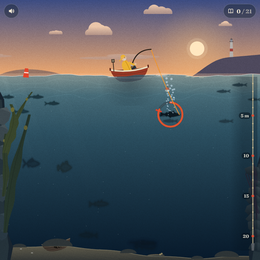
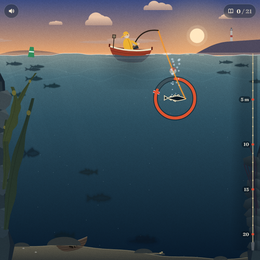
Saltline: the fishing game remade as float fishing in a bay, dawn to night
games/fishing.html is now Saltline. You drag from the boat onto the water to cast a float.
The stop on the line holds the hook at the depth you aimed, and that depth decides which
fish you meet. A shadow noses in. The float ticks with the nibbles; strike then and the
fish bolts. Then it plunges, and a tap inside that species' window hooks it. In the fight
you hold to reel and let go when a run loads the line. A slack line lets the hook work
loose; a leaping fish held through its leap throws it. Every catch is laid on a wooden
measuring board, nose against the stop, and logged among 21 species.

Why it looks this way: fish are only soft shadows in the water, so outline and size are the
clue and the species is the surprise on the board. Colour encodes depth, sky and sea take
the hour, and the hour decides who is about. The one signal colour is the float's red. A
lead line marks the depth. The angler wears a yellow oilskin. The look is flat and
printed: grain, Fraunces for names and numbers.

The rules live in a DOM-free core, and test/fishing.mjs checks them:
- every species lives somewhere and turns up at its hours;
- the strike window and outcomes match the float;
- a careful angler lands the biggest of every species, a greedy one snaps the strong ones,
  a lazy one loses them to slack;
- a person-paced bot gets a bite inside half a minute;
- seeds replay exactly, saves trust nothing, and the old PLUMB log carries over where its
  species live here too.
[…]

diff --git a/games/fishing.html b/games/fishing.html
@@ -41,7 +41,7 @@
         #title { position: fixed; left: 0; right: 0; top: 33%; z-index: 3; isolation: isolate; text-align: center; pointer-events: none; z-index: 3; }
         #title::before { content: ''; position: absolute; left: 50%; top: 50%; width: min(560px, 110vw); height: 220px; transform: translate(-50%, -50%); background: radial-gradient(closest-side, rgba(4,30,44,.62), rgba(4,30,44,0)); z-index: -1; }
         #title h1 { margin: 0; font: 700 clamp(44px, 9vw, 92px)/.95 var(--serif); letter-spacing: -.02em; color: #fff8ea; text-shadow: 0 2px 18px rgba(10,20,40,.35); font-variation-settings: 'SOFT' 100, 'WONK' 1; }
-        #title p { margin: 10px 0 0; font: italic 500 clamp(15px, 2.2vw, 19px) var(--serif); color: rgba(255,248,234,.88); text-shadow: 0 1px 8px rgba(10,20,40,.4); }
+        #title p { margin: 10px auto 0; padding: 0 20px; max-width: 34ch; font: italic 500 clamp(16px, 2.2vw, 19px)/1.35 var(--serif); color: rgba(255,248,234,.88); text-shadow: 0 1px 8px rgba(10,20,40,.4); }
         #hint { position: fixed; left: 50%; top: 72%; transform: translate(-50%, -50%); pointer-events: none; z-index: 3; text-align: center; opacity: 0; }
         #hint .hand { width: 120px; height: 90px; margin: 0 auto 8px; position: relative; }
         #hint .dot { position: absolute; width: 34px; height: 34px; left: 4px; top: -2px; filter: drop-shadow(0 2px 4px rgba(0,0,0,.35)); animation: drag 2.4s cubic-bezier(.45,0,.25,1) infinite; }
@@ -51,15 +51,16 @@
         @keyframes trail { 0%, 18% { clip-path: inset(0 100% 0 0); opacity: .9; } 70% { clip-path: inset(0 0 0 0); opacity: .9; } 100% { clip-path: inset(0 0 0 0); opacity: 0; } }
         /* the catch: a measuring board */
         #card { position: fixed; inset: 0; z-index: 10; display: flex; align-items: center; justify-content: center; padding: 16px; background: rgba(6,16,26,0); transition: background .25s; cursor: pointer; }
-        #card.on { background: rgba(6,16,26,.42); }
+        #card.on { background: rgba(6,16,26,.24); }
+        body.logging .hud { opacity: 0; pointer-events: none; } .hud { transition: opacity .2s; }
         .board { width: min(560px, 100%); background: var(--paper); color: var(--ink); border-radius: 14px; padding: 18px 18px 14px; box-shadow: 0 24px 60px rgba(0,0,0,.4), inset 0 0 0 1px rgba(255,255,255,.5);
             transform: translateY(40px) scale(.96); opacity: 0; transition: transform .38s cubic-bezier(.2,1.25,.4,1), opacity .2s; position: relative;
             background-image: repeating-linear-gradient(90deg, rgba(120,90,50,.035) 0 2px, transparent 2px 7px); }
         #card.on .board { transform: none; opacity: 1; }
-        .stamp { position: absolute; top: -16px; right: 18px; font: 700 15px var(--serif); font-variant: small-caps; letter-spacing: .06em; text-transform: lowercase; padding: 6px 10px; border-radius: 4px; transform: rotate(3deg) scale(1.6); opacity: 0; transition: transform .3s cubic-bezier(.3,1.6,.5,1) .45s, opacity .15s .45s; }
-        .stamp.new { background: var(--float); color: #fff; }
-        .stamp.best { background: var(--oil); color: #2a1d05; }
-        #card.on .stamp.new, #card.on .stamp.best { transform: rotate(3deg) scale(1); opacity: 1; }
+        .stamp { position: absolute; top: calc(18px + clamp(150px, 36vw, 210px) - 40px); right: 28px; font: 700 21px var(--serif); font-variant: small-caps; letter-spacing: .08em; text-transform: lowercase; padding: 4px 10px; border-radius: 3px; border: 2.5px solid currentColor; mix-blend-mode: multiply; z-index: 2; transform: rotate(-6deg) scale(1.8); opacity: 0; transition: transform .2s cubic-bezier(.5,0,.75,0) 1.25s, opacity .08s 1.25s; background: rgba(243,234,214,.55) !important; }
+        .stamp.new { color: #b8321f; background: transparent; }
+        .stamp.best { color: #8a5a10; background: transparent; }
+        #card.on .stamp.new, #card.on .stamp.best { transform: rotate(-6deg) scale(1); opacity: .88; }
         #plate { display: block; width: 100%; height: clamp(150px, 36vw, 210px); border-radius: 8px; background: linear-gradient(#e9dcbd, #dfcfa9); box-shadow: inset 0 1px 0 rgba(255,255,255,.5), inset 0 -2px 0 rgba(90,60,20,.12); }
         .meta { display: flex; justify-content: space-between; align-items: flex-end; gap: 12px; margin-top: 14px; }
         .meta h2 { margin: 0; font: 700 clamp(26px, 6vw, 34px)/1 var(--serif); letter-spacing: -.01em; }
@@ -78,6 +79,7 @@
         .jhead { max-width: 1040px; margin: 0 auto 10px; padding: 0 4px; display: flex; justify-content: space-between; align-items: center; gap: 12px; }
         .jhead h2 { margin: 0; font: 700 clamp(30px, 6vw, 42px)/1 var(--serif); }
         .jhead p { margin: 6px 0 0; font: italic 500 17px var(--serif); font-variant-numeric: oldstyle-nums; color: #3f3626; }
+        #jlegend { font-size: 14px !important; margin-top: 4px !important; } #jlegend em { font-style: normal; display: inline-block; vertical-align: -5px; margin: 0 2px 0 8px; color: #2a2418; } #jlegend em:first-child { margin-left: 0; }
         #jclose { color: var(--ink); background: transparent; border-color: rgba(16,32,43,.3); backdrop-filter: none; }
         #grid { max-width: 1040px; margin: 0 auto; padding: 0 4px 0 14px; row-gap: 10px; border-left: 1.5px solid rgba(200,70,50,.4); display: grid; grid-template-columns: repeat(auto-fill, minmax(min(300px, 100%), 1fr)); column-gap: 28px; }
         .entry { display: grid; grid-template-columns: 1fr; grid-template-rows: 64px 26px 22px 26px; align-content: start; }
@@ -120,7 +122,7 @@
     </div>
 </div>
 <div id="journal" hidden role="dialog" aria-label="Logbook">
-    <div class="jhead"><div><h2>Logbook</h2><p id="jcount"></p></div><button class="btn" id="jclose" aria-label="Close logbook">Close</button></div>
+    <div class="jhead"><div><h2>Logbook</h2><p id="jcount"></p><p id="jlegend"></p></div><button class="btn" id="jclose" aria-label="Close logbook">Close</button></div>
     <div id="grid"></div>
 </div>
 <script id="core">
@@ -133,7 +135,7 @@ const SALT = (() => {
   const BANDS = {shallow: [.8, 6.5], mid: [6, 14], deep: [13.5, 20.2], bed: [20.4, 21.4]};
   const TUNE = {
     sink: 7, castMin: .45, castMax: 1, notice: 3.2, noticeY: 2.4, noticeRate: .55, twitchBoost: 2.6, twitchFor: 2.2,
-    approach: .9, nibbleGap: [.5, 1.3], nibbleDip: .2, spookR: 3.5, cooldown: 6,
+    approach: .9, nibbleGap: [.5, 1.3], nibbleDip: .4, spookR: 3.5, cooldown: 6,
     reel: 2.3, snapAt: 1, snapGrace: .35, slackAt: .14, slackFor: 2, rise: 5.5, fall: 4,
     tell: .45, jumpRise: .55, jumpAir: .8, jumpHold: .3, land: 1.1, retrieve: 22,
   };
@@ -271,7 +273,7 @@ const SALT = (() => {
     const L = st.line;
     if (L.phase === 'fight' || L.phase === 'landed') return false;
     if (L.phase !== 'idle') release(st, 'recast');
-    x = clamp(x, .6, st.W - .6); y = clamp(y, .6, BED - .5);
+    x = clamp(x, 2.4, st.W - 2.6); y = clamp(y, .6, BED - .5);   // clear of the reef and the lead line
     const d = Math.abs(x - st.boat);
     st.line = {phase: 'flying', x, y, t: 0, dur: clamp(TUNE.castMin + d * .03, TUNE.castMin, TUNE.castMax), hookY: 0, twitch: 0, dip: 0};
     st.events.push({type: 'cast', x, y});
@@ -325,7 +327,7 @@ const SALT = (() => {
     L.dip = 0;
     const f = L.fish && st.fish.find(g => g.id === L.fish);
     if (f) {
-      if (f.state === 'nibble' && f.t < .18) L.dip = TUNE.nibbleDip;
+      if (f.state === 'nibble' && f.t < .24) L.dip = TUNE.nibbleDip;
       if (f.state === 'bite') L.dip = 1;
       return;
     }
@@ -375,7 +377,7 @@ const SALT = (() => {
       if (f.t > 9) spook(st, f, null);
       return;
     }
-    f.x = mx + (f.state === 'nibble' && f.t < .18 ? f.dir * .12 * Math.sin(f.t / .18 * Math.PI) : 0); f.y = my; f.vx = 0;
+    f.x = mx + (f.state === 'nibble' && f.t < .18 ? f.dir * .12 * Math.sin(f.t / .18 * Math.PI) : f.state === 'bite' && f.t < .22 ? f.dir * .35 * Math.sin(f.t / .22 * Math.PI) : 0);   // a nibble pecks, a bite lunges f.y = my; f.vx = 0;
     if (f.state === 'nibble' || f.state === 'wait') {
       if (f.t >= f.gap) {
         if (f.state === 'nibble') f.nibbles--;
@@ -427,7 +429,7 @@ const SALT = (() => {
     const Tt = L.hold ? .15 + 1.45 * k * p : .05 + .5 * k * p;
     L.T += (Tt - L.T) * Math.min(1, dt * (Tt > L.T ? TUNE.rise : TUNE.fall));
     if (L.hold) L.r -= TUNE.reel * (1 - Math.min(.92, k * p * 1.15)) * dt;
-    else L.r += (L.mode === 'run' ? sp.spd * 2.2 * p : L.mode === 'tell' ? .3 : .05) * dt;
+    else L.r += (L.mode === 'run' ? sp.spd * 2.8 * p : L.mode === 'tell' ? .3 : .05) * dt;
     // the fish heads away and, for divers, down; the line angle follows slowly
     const want = L.mode === 'run' ? (L.runDir === 0 ? Math.sign(L.ang || 1) * .15 : L.runDir * 1.25) : L.ang * .985;
     L.ang += (want - L.ang) * Math.min(1, dt * (L.mode === 'run' ? 1.4 : .4));
@@ -440,6 +442,7 @@ const SALT = (() => {
     if (L.mode === 'rise') fy = lerp(fy, .4, Math.min(1, L.modeT / L.modeLen) ** 2);
     if (L.mode === 'air') { const u = L.modeT / L.modeLen; fy = .4 - (1.4 + k) * Math.sin(Math.PI * u) - .4 * u; }
     L.fx = fx; L.fy = fy; f.x = fx; f.y = fy; f.dir = Math.sin(L.ang) >= 0 ? (L.mode === 'run' || L.mode === 'tell' ? 1 : -1) : (L.mode === 'run' || L.mode === 'tell' ? -1 : 1);
+    for (const g of st.fish) if (g !== f && g.state === 'swim' && Math.hypot(g.x - fx, g.y - fy) < 2.5) { g.dir = g.x < fx ? -1 : 1; g.v = Math.max(g.v, g.sp.spd * 1.8); g.cool = Math.max(g.cool, 4); }   // others give a fighting fish room
     // breaking, slack, landing
     if (L.T >= TUNE.snapAt) L.snapT += dt; else L.snapT = Math.max(0, L.snapT - dt * 2);
     if (L.snapT > TUNE.snapGrace) return lose(st, f, 'snap');
@@ -472,7 +475,7 @@ const SALT = (() => {
 
   function step(st) {
     const dt = STEP; st.t += dt; st.clock = (st.clock + dt / DAY) % 1;
-    st.events = [];
+    // events raised by input since the last step (a cast, a strike, a twitch) come out with this step's
     if (st.line.phase === 'fight') stepFight(st, dt); else stepFloat(st, dt);
     for (const f of st.fish) stepFish(st, f, dt);
     const L = st.line;
@@ -486,7 +489,8 @@ const SALT = (() => {
       const stale = st.fish.find(f => f.state === 'swim' && !about(f.sp, st.clock) && f.cool <= 0);
       if (stale && st.rand() < .3) { stale.cool = 99; stale.v = stale.sp.spd * 1.4; }
     }
-    return st.events;
+    const out = st.events; st.events = [];
+    return out;
   }
 
   // saves trust nothing
@@ -827,7 +831,7 @@ const ART = (() => {
   function layout() {
     vw = innerWidth; vh = innerHeight; dpr = Math.min(2, devicePixelRatio || 1);
     cv.width = Math.round(vw * dpr); cv.height = Math.round(vh * dpr); cv.style.width = vw + 'px'; cv.style.height = vh + 'px';
-    skyH = Math.round(vh * (vw < vh ? .22 : .29)); bedPad = Math.max(16, vh * .03);
+    skyH = Math.round(vh * (vw < vh ? .22 : .21)); bedPad = Math.max(16, vh * .03);
     pxm = (vh - skyH - bedPad) / S.BED; U = Math.max(18, Math.min(50, Math.max(pxm * 1.15, Math.min(vw, vh * 1.6) / 30)));
     st.sizeK = Math.max(1, Math.min(1.4, vw / 1000));
     S.setWidth(st, vw / pxm);
@@ -861,7 +865,7 @@ const ART = (() => {
   // ---- feel: springs the page owns (float bob, rod bend, gauge needle, camera-free) ----
   const fx = {teach: 0, word: '', side: 1, face: 1, fface: 1, bob: 0, bobV: 0, rodA: .5, bend: 0, gauge: 0, gaugeA: 0, title: 1, hint: 0, shake: 0, flash: 0};
   const rings = [], words = [], drops = [], bubbles = [], glints = [];
-  let aim = null, holding = false, lastT = performance.now(), acc = 0, idleT = 0, landedAt = 0;
+  let timeScale = 1, aim = null, holding = false, lastT = performance.now(), acc = 0, idleT = 0, landedAt = 0;
 
   // ---- sound: everything synthesised; nothing until the first touch ----
   let ac = null, master = null, hum = null, humG = null, wash = null;
@@ -939,7 +943,7 @@ const ART = (() => {
   };
   cv.addEventListener('pointerup', up); cv.addEventListener('pointercancel', e => { aim = null; up(e); });
   function startAim(e) { aim = {x: 0, y: 0}; setAim(e); }
-  function setAim(e) { const w = toWorld(e); aim.x = Math.max(1.4, Math.min(st.W - 1.4, w.x)); aim.y = Math.max(-.2, Math.min(S.BED - .5, w.y)); }
+  function setAim(e) { const w = toWorld(e); aim.x = Math.max(2.4, Math.min(st.W - 2.6, w.x)); aim.y = Math.max(-.2, Math.min(S.BED - .5, w.y)); }
   // keys: space strikes and reels, the arrows aim a cast from where the float last was, enter casts
   let kAim = null;
   addEventListener('keydown', e => {
@@ -959,7 +963,7 @@ const ART = (() => {
     if (d && (L.phase === 'idle' || L.phase === 'set')) {
       e.preventDefault();
       const a = aim || (kAim = kAim || {x: st.boat + 6, y: 8});
-      aim = {x: Math.max(1.4, Math.min(st.W - 1.4, a.x + d[0] * 1.2)), y: Math.max(.6, Math.min(S.BED - .5, a.y + d[1] * 1.2))}; kAim = aim;
+      aim = {x: Math.max(1.4, Math.min(st.W - 2.6, a.x + d[0] * 1.2)), y: Math.max(.6, Math.min(S.BED - .5, a.y + d[1] * 1.2))}; kAim = aim;
     }
   });
   addEventListener('keyup', e => {
@@ -973,10 +977,10 @@ const ART = (() => {
     switch (ev.type) {
       case 'cast': SFX.cast(); fx.rodKick = 1; break;
       case 'splash': SFX.plip(); ring(ev.x, 1); splash(ev.x, .6); break;
-      case 'nibble': SFX.tick(); ring(L.x, .45); break;
-      case 'bite': SFX.bloop(); ring(L.x, 1.4); splash(L.x, .5); buzz(30); break;
+      case 'nibble': SFX.tick(); ring(L.x, .75); break;
+      case 'bite': fx.pop = 1; SFX.bloop(); ring(L.x, 1.6); ring(L.x, 1); splash(L.x, 1.1); buzz(30); fx.shake = 1; fx.kick = 1; break;
       case 'twitch': SFX.click(); break;
-      case 'spook': SFX.early(); say('Too soon', ev.x, ev.y); break;
+      case 'spook': SFX.early(); say('Too soon', L.x || ev.x, ev.y); ring(L.x || ev.x, 1); for (let i = 0; i < 10; i++) bubbles.push({x: ev.x + (Math.random() - .5), y: ev.y + (Math.random() - .5) * .6, t: 0}); fx.bobV -= 260; break;
       case 'missed': say('Too slow', ev.x, ev.y); break;
       case 'hook': SFX.hook(); buzz(40); fx.shake = 1; break;
       case 'tell': buzz(15); break;
@@ -1011,7 +1015,7 @@ const ART = (() => {
     const run = now => {
       const u = Math.min(1, (now - t0) / dur), e = 1 - Math.pow(1 - u, 3);
       const slide = Math.min(1, (now - t0) / (dur * .45)), es = 1 - Math.pow(1 - slide, 3);
-      const m = Math.max(0, (u - .3) / .7), em = 1 - Math.pow(1 - m, 3);
+      const m = Math.max(0, (u - .12) / .88), em = 1 - Math.pow(1 - m, 3);
       $('ccm').textContent = Math.round(rec.cm * em);
       drawBoard(sp, rec.cm, em, 1 - es);
       if (u < 1 && !card.hidden) requestAnimationFrame(run);
@@ -1023,10 +1027,11 @@ const ART = (() => {
     if (plateCv.width !== Math.round(w * dpr)) { plateCv.width = Math.round(w * dpr); plateCv.height = Math.round(h * dpr); }
     c.setTransform(dpr, 0, 0, dpr, 0, 0); c.clearRect(0, 0, w, h);
     // the board's scale: a round length a little past the fish
-    const steps = [20, 30, 50, 80, 100, 150, 200, 300, 400, 600], span = steps.find(s => s >= cm * 1.12) || 600;
-    const x0 = 16, x1 = w - 14, ppc = (x1 - x0) / span, rulerY = 26;
+    const steps = [20, 30, 50, 80, 100, 150, 200, 300, 400, 600];
+    const tall = sp.flat ? .5 : sp.shape.h * 1.5 + .08, need = cm * tall * (w - 30) / Math.max(40, h - 40), span = steps.find(s => s >= cm * 1.12 && s >= need) || 600;
+    const x0 = 16, x1 = Math.max(x0 + 60, w - 14), ppc = (x1 - x0) / span, rulerY = 26;
     c.fillStyle = '#c9b48a'; c.fillRect(0, 0, w, rulerY + 2);
-    c.fillStyle = '#3a2d1c'; c.font = '600 11px Fraunces, Georgia, serif'; c.textAlign = 'center';
+    c.fillStyle = '#3a2d1c'; c.font = `600 ${w > 400 ? 13 : 11}px Fraunces, Georgia, serif`; c.textAlign = 'center';
     const tickEvery = span <= 50 ? 1 : span <= 100 ? 2 : span <= 200 ? 5 : 10, labelEvery = span <= 50 ? 10 : span <= 100 ? 10 : span <= 200 ? 50 : 100;
     for (let v = 0; v <= span; v += tickEvery) {
       const x = x0 + v * ppc, big = v % labelEvery === 0, mid = v % (labelEvery / 2) === 0;
@@ -1036,7 +1041,7 @@ const ART = (() => {
     // the board is planed wood: grain lines, and a stop block the nose is pushed against
     c.strokeStyle = 'rgba(120,82,40,.10)'; c.lineWidth = 1;
     for (let i = 0; i < 14; i++) { const y = rulerY + 6 + i * (h - rulerY) / 14; c.beginPath(); c.moveTo(0, y); for (let x = 0; x <= w; x += 20) c.lineTo(x, y + Math.sin(x * .02 + i * 1.7) * 2.5); c.stroke(); }
-    c.fillStyle = '#8a5a2e'; c.fillRect(0, rulerY + 2, x0, h - rulerY - 2); c.fillStyle = 'rgba(255,255,255,.18)'; c.fillRect(0, rulerY + 2, x0 - 2, 3);
+    c.fillStyle = '#8a5a2e'; c.fillRect(0, rulerY + 2, x0 + 1, h - rulerY - 2); c.fillStyle = 'rgba(255,255,255,.18)'; c.fillRect(0, rulerY + 2, x0 - 2, 3);
     // the fish, nose against the stop at 0
     const L = cm * ppc, cy = rulerY + (h - rulerY) / 2;
     c.save(); c.translate(x0 + L / 2 + off * w * .9, cy); c.rotate(off * .12); c.scale(-1, 1);
@@ -1067,16 +1072,18 @@ const ART = (() => {
   function openJournal() {
     journalOpen = true; const j = $('journal'), grid = $('grid'); grid.innerHTML = '';
     const caught = Object.keys(st.journal).length;
+    $('jlegend').innerHTML = ['d', 'D', 'k', 'n'].map(c => `<em>${GLYPH[c]}</em>${TIMES[c]}`).join(' ');
     $('jcount').textContent = `${caught} of ${S.SPECIES.length} species · ${Object.values(st.journal).reduce((a, j) => a + j.n, 0)} fish`;
-    for (const sp of S.SPECIES) {
+    const order = [...S.SPECIES].sort((a, b) => !!st.journal[b.id] - !!st.journal[a.id]);
+    for (const sp of order) {
       const rec = st.journal[sp.id], el = document.createElement('div');
       el.className = 'entry' + (rec ? '' : ' unk');
-      el.innerHTML = `<canvas></canvas><b>${rec ? sp.name : '?'}</b><span>${rec ? `best ${rec.best} cm · caught ${rec.n}` : 'not yet caught'}</span><i>${BANDN[sp.band]} ${['d', 'D', 'k', 'n'].filter(c => sp.t.includes(c)).map(c => `<em title="${TIMES[c]}">${GLYPH[c]}</em>`).join('')}</i>`;
+      el.innerHTML = `<canvas></canvas><b>${rec ? sp.name : '?'}</b><span>${rec ? `best ${rec.best} cm · caught ${rec.n}` : ''}</span><i>${BANDN[sp.band]} ${['d', 'D', 'k', 'n'].filter(c => sp.t.includes(c)).map(c => `<em title="${TIMES[c]}">${GLYPH[c]}</em>`).join('')}</i>`;
       grid.appendChild(el);
     }
-    j.hidden = false; j.offsetWidth; j.classList.add('on');
+    j.hidden = false; j.offsetWidth; j.classList.add('on'); document.body.classList.add('logging');
     requestAnimationFrame(() => grid.querySelectorAll('canvas').forEach((c, i) => {
-      const sp = S.SPECIES[i], r = c.getBoundingClientRect(); c.width = r.width * dpr; c.height = r.height * dpr;
+      const sp = order[i], r = c.getBoundingClientRect(); if (r.width < 80 || r.height < 20) return; c.width = r.width * dpr; c.height = r.height * dpr;
       // one scale for the whole ledger (square-rooted so a smelt is still a fish): the size is the clue
       // drawn at relative size (a gentle curve so a smelt is still visible next to an oarfish), with its own scale bar
       const L = Math.min((r.width - 60) * (.2 + .8 * Math.pow(sp.len[1] / 520, .6)) / (1 + (sp.shape.beak || 0)), (r.height - 8) / Math.max(.3, sp.shape.h * 1.25 + .06));
@@ -1090,7 +1097,7 @@ const ART = (() => {
     }));
     $('jbtn').setAttribute('aria-expanded', 'true');
   }
-  function closeJournal() { journalOpen = false; const j = $('journal'); j.classList.remove('on'); setTimeout(() => { if (!journalOpen) j.hidden = true; }, 260); $('jbtn').setAttribute('aria-expanded', 'false'); }
+  function closeJournal() { journalOpen = false; document.body.classList.remove('logging'); const j = $('journal'); j.classList.remove('on'); setTimeout(() => { if (!journalOpen) j.hidden = true; }, 260); $('jbtn').setAttribute('aria-expanded', 'false'); }
   $('jbtn').addEventListener('click', () => journalOpen ? closeJournal() : openJournal());
   $('jclose').addEventListener('click', closeJournal);
   $('mbtn').addEventListener('click', () => { prefs.muted = !prefs.muted; if (master) master.gain.value = prefs.muted ? 0 : .8; if (!prefs.muted) audio(); syncHud(); persist(); });
@@ -1112,7 +1119,8 @@ const ART = (() => {
   function draw(now) {
     const t = st.t, L = st.line;
     palette(st.clock);
-    ctx.setTransform(dpr, 0, 0, dpr, 0, 0);
+    const sh = reduce ? 0 : fx.shake * fx.shake * 4;
+    ctx.setTransform(dpr, 0, 0, dpr, Math.sin(now / 17) * sh * dpr, Math.cos(now / 23) * sh * dpr);
     drawSky(t);
     drawWater(t);
     drawFish(t);
@@ -1262,8 +1270,8 @@ const ART = (() => {
       }
     }
     // marker buoys, moored on the grid of the bay
-    for (let i = st.W > 34 ? 0 : 1; i < 2; i++) {
-      const bx = (st.W > 34 ? (i ? .84 : .17) : .1) * st.W; if (Math.abs(bx - st.boat) < 5) continue;
+    for (let i = 0; i < 1; i++) {
+      const bx = (st.W > 34 ? .17 : .12) * st.W; if (Math.abs(bx - st.boat) < 5) continue;
       const x = sx(bx), y = surf(bx, t), tl = Math.atan2(surf(bx + .5, t) - surf(bx - .5, t), pxm) * 1.2, h = U * .9;
       ctx.save(); ctx.translate(x, y); ctx.rotate(tl);
       ctx.fillStyle = lit(i ? '#e8462b' : '#2f8f5b'); ctx.beginPath(); ctx.moveTo(-h * .35, h * .2); ctx.lineTo(-h * .2, -h * .9); ctx.lineTo(h * .2, -h * .9); ctx.lineTo(h * .35, h * .2); ctx.fill();
@@ -1463,17 +1471,18 @@ const ART = (() => {
       if (L.mode === 'air') rot = -away * (L.modeT / L.modeLen - .5) * 1.6; else if (L.mode === 'rise') rot = -away * .5 * Math.min(1, L.modeT / .2);
       const thrash = reduce ? 0 : Math.sin(t * (L.mode === 'run' ? 22 : 9)) * (L.mode === 'run' || L.mode === 'tell' ? .22 : .08);
       ctx.save(); ctx.translate(x + jit, y); ctx.rotate(rot + thrash); ctx.scale(fx.fface, 1);
-      const col = rgb(mixc(P.water(Math.max(0, L.fy)), [0, 4, 10], .78), .96);
+      const reveal = Math.max(0, Math.min(.55, 1 - L.r / 7)), col = rgb(mixc(mixc(P.water(Math.max(0, L.fy)), [0, 4, 10], .78), hex(f.sp.col.side), reveal), .96);
       shadow(ctx, f.sp, len, reduce ? 0 : Math.sin(t * (6 + 10 * thr)) * .08 * thr, col, true);
+      ctx.strokeStyle = 'rgba(250,240,205,.85)'; ctx.lineWidth = 2.5; ctx.stroke();   // yours: a pale rim the others lack
       ctx.restore();
       // the strain, drawn round the fish you are fighting: it fills with the load and burns red near breaking
       if (fx.gaugeA > .01) {
-        const R = Math.max(22, len * .62), v = Math.min(1, fx.gauge), warn = L.snapT > 0;
+        const R = Math.max(44, len * .9), v = Math.min(1, fx.gauge), warn = L.snapT > 0;
         ctx.save(); ctx.globalAlpha = fx.gaugeA * .95; ctx.lineCap = 'round';
-        ctx.lineWidth = 7; ctx.strokeStyle = 'rgba(4,14,22,.45)'; ctx.beginPath(); ctx.arc(x, y, R, 0, Math.PI * 2); ctx.stroke();
-        ctx.lineWidth = 6; ctx.strokeStyle = 'rgba(240,248,250,.12)'; ctx.beginPath(); ctx.arc(x, y, R, 0, Math.PI * 2); ctx.stroke();
-        { const a = -Math.PI * .5 + Math.PI * 1.6; ctx.strokeStyle = '#e2402a'; ctx.lineWidth = 5; ctx.lineCap = 'butt'; ctx.beginPath(); ctx.moveTo(x + Math.cos(a) * (R - 9), y + Math.sin(a) * (R - 9)); ctx.lineTo(x + Math.cos(a) * (R + 10), y + Math.sin(a) * (R + 10)); ctx.stroke(); ctx.lineCap = 'round'; }
-        ctx.strokeStyle = v < .7 ? '#f6d46a' : rgb(mixc([246, 212, 106], [226, 52, 32], Math.min(1, (v - .7) / .15))); ctx.lineWidth = warn && !reduce ? 6 + Math.sin(t * 40) * 2 : 6;
+        ctx.lineWidth = 14; ctx.strokeStyle = 'rgba(4,14,22,.6)'; ctx.beginPath(); ctx.arc(x, y, R, 0, Math.PI * 2); ctx.stroke();
+        ctx.lineWidth = 9; ctx.strokeStyle = 'rgba(240,248,250,.16)'; ctx.beginPath(); ctx.arc(x, y, R, 0, Math.PI * 2); ctx.stroke();
+        { const a = -Math.PI * .5 + Math.PI * 1.6; ctx.lineCap = 'butt'; ctx.strokeStyle = '#fff'; ctx.lineWidth = 6; ctx.beginPath(); ctx.moveTo(x + Math.cos(a) * (R - 10), y + Math.sin(a) * (R - 10)); ctx.lineTo(x + Math.cos(a) * (R + 10), y + Math.sin(a) * (R + 10)); ctx.lineWidth = 8; ctx.stroke(); ctx.strokeStyle = '#d4301c'; ctx.lineWidth = 5; ctx.stroke(); ctx.lineCap = 'round'; }
+        ctx.strokeStyle = v < .7 ? '#f6d46a' : rgb(mixc([246, 212, 106], [226, 52, 32], Math.min(1, (v - .7) / .15))); ctx.lineWidth = warn && !reduce ? 9 + Math.sin(t * 40) * 2.5 : 9;
         if (v > .01) { ctx.beginPath(); ctx.arc(x, y, R, -Math.PI * .5, -Math.PI * .5 + Math.PI * 2 * v); ctx.stroke(); }
         // until the first fish is landed, the ring says the one word the moment needs
         if (!(prefs.taught & 2)) {
@@ -1503,7 +1512,7 @@ const ART = (() => {
 
   // ---- the boat: a clinker double-ender, the angler on the thwart turning to face the water fished ----
   function boatPose(t) {
-    const x = sx(st.boat), y = surf(st.boat, t) + U * .12, tilt = Math.atan2(surf(st.boat + 1, t) - surf(st.boat - 1, t), 2 * pxm) * .8;
+    const x = sx(st.boat), y = surf(st.boat, t) + U * .12, tilt = Math.atan2(surf(st.boat + 1, t) - surf(st.boat - 1, t), 2 * pxm) * .8 + (fx.bend || 0) * .07 * (fx.side || 1) * (st.line.phase === 'fight' ? 1 : 0);
     const loc = (lx, ly) => [x + Math.cos(tilt) * lx - Math.sin(tilt) * ly, y + Math.sin(tilt) * lx + Math.cos(tilt) * ly];
     return {x, y, tilt, loc};
   }
@@ -1625,7 +1634,8 @@ const ART = (() => {
       const sag = 10 + (1 - Math.min(1, T)) * 44;
       const vib = T > .8 && !reduce ? Math.sin(t * 90) * (T - .8) * 7 : 0;
       const cx = mix(tip.x, x, .5) + vib, cy = mix(tip.y, y, .5) + sag;
-      ctx.strokeStyle = rgb(lineCol(T)); ctx.lineWidth = 1 + T * 1.5;
+      if (T > .55) { ctx.strokeStyle = rgb(lineCol(T), (T - .55) * .5); ctx.lineWidth = 5 + T * 4; ctx.beginPath(); ctx.moveTo(tip.x, tip.y); ctx.quadraticCurveTo(cx, cy, x, y); ctx.stroke(); }
+      ctx.strokeStyle = rgb(lineCol(T)); ctx.lineWidth = 1.4 + T * 2.2;
       ctx.beginPath(); ctx.moveTo(tip.x, tip.y); ctx.quadraticCurveTo(cx, cy, x, y); ctx.stroke();
       // the float rides down the line, dragged under by the fish
       if (L.fy > 1) {
@@ -1646,7 +1656,9 @@ const ART = (() => {
     ctx.beginPath(); ctx.moveTo(tip.x, tip.y); ctx.quadraticCurveTo(mix(tip.x, x, .55), Math.max(tip.y, bob) + 26, x, bob - 2); ctx.stroke();
     // below the float the line leans a little with the current
     const drift = Math.sin(t * .4 + L.x) * 6 + (hy - bob) * .03;
-    ctx.strokeStyle = 'rgba(230,240,240,.5)'; ctx.beginPath(); ctx.moveTo(x, bob + 6); ctx.quadraticCurveTo(x + drift, mix(bob, hy, .5), x, hy - 6); ctx.stroke();
+    const taut = L.dip >= 1;
+    ctx.strokeStyle = taut ? 'rgba(255,246,220,.95)' : 'rgba(230,240,240,.5)'; ctx.lineWidth = taut ? 2 : 1; ctx.beginPath(); ctx.moveTo(x, bob + 6); ctx.quadraticCurveTo(taut ? x : x + drift, mix(bob, hy, .5), x, hy - 6); ctx.stroke(); ctx.lineWidth = 1;
+    if (taut && !reduce && Math.random() < .5) bubbles.push({x: L.x + (Math.random() - .5) * .3, y: Math.max(.1, (bob - skyH) / pxm), t: 0});
     const hg = ctx.createRadialGradient(x, hy, 0, x, hy, 9); hg.addColorStop(0, `rgba(255,236,200,${.12 + .2 * P.night})`); hg.addColorStop(1, 'rgba(255,236,200,0)');
     ctx.fillStyle = hg; ctx.fillRect(x - 9, hy - 9, 18, 18);
     ctx.fillStyle = '#5b6066'; ctx.beginPath(); ctx.arc(x, hy - 6, 2.2, 0, Math.PI * 2); ctx.fill();
@@ -1655,7 +1667,7 @@ const ART = (() => {
     bobber(x, bob, Math.max(0, Math.min(1, fx.bob / 14)));
   }
   function bobber(x, y, under) {
-    const r = Math.max(5, U * .26), t = st.t;
+    const r = Math.max(7, U * .34), t = st.t;
     const paint = () => {
       ctx.save(); ctx.translate(x, y);
       ctx.fillStyle = '#efe7d3'; ctx.beginPath(); ctx.arc(0, 0, r, 0, Math.PI); ctx.fill();
@@ -1682,14 +1694,21 @@ const ART = (() => {
       ctx.beginPath(); ctx.ellipse(sx(r.x), y, rad, rad * .22, 0, 0, Math.PI * 2); ctx.stroke();
     }
     ctx.fillStyle = 'rgba(240,250,255,.85)';
-    for (const d of drops) ctx.fillRect(d.x - 1.5, d.y - 1.5, 3, 3);
+    for (const d of drops) { ctx.beginPath(); ctx.arc(d.x, d.y, 2.2, 0, Math.PI * 2); ctx.fill(); }
     ctx.fillStyle = 'rgba(220,240,255,.5)';
     for (const b of bubbles) { ctx.beginPath(); ctx.arc(sx(b.x), sy(b.y), 1.5 + b.t, 0, Math.PI * 2); ctx.fill(); }
+    if (fx.pop > 0 && st.line.x != null) {
+      const x = sx(st.line.x), y = surf(st.line.x, t), p = 1 - fx.pop;
+      ctx.strokeStyle = `rgba(255,255,255,${fx.pop * .9})`; ctx.lineWidth = 3 * fx.pop + 1;
+      ctx.beginPath(); ctx.ellipse(x, y, 10 + p * 46, 3 + p * 10, 0, 0, Math.PI * 2); ctx.stroke();
+      const gl = ctx.createRadialGradient(x, y, 0, x, y, 60 + p * 60); gl.addColorStop(0, `rgba(255,250,230,${fx.pop * .5})`); gl.addColorStop(1, 'rgba(255,250,230,0)'); ctx.fillStyle = gl; ctx.fillRect(x - 130, y - 130, 260, 260);
+      ctx.strokeStyle = `rgba(255,255,255,${fx.pop * .6})`; ctx.lineWidth = 2; ctx.beginPath(); ctx.ellipse(x, y, 20 + p * 90, 5 + p * 18, 0, 0, Math.PI * 2); ctx.stroke();
+    }
     // sea sparkle
     for (const g of glints) { const a = Math.max(0, 1 - g.t / 1.2); ctx.fillStyle = `rgba(150,240,255,${a * .8})`; ctx.fillRect(sx(g.x) - 1, sy(g.y) - 1, 2.2, 2.2); }
     if (st.line.phase === 'set' || st.line.phase === 'sinking') foam(st.line.x, t, .6);
     // words
-    ctx.textAlign = 'center'; ctx.font = `italic 600 ${Math.round(Math.max(15, Math.min(20, vw / 30)))}px Fraunces, Georgia, serif`;
+    ctx.textAlign = 'center'; ctx.font = `italic 700 ${Math.round(Math.max(20, Math.min(26, vw / 40)))}px Fraunces, Georgia, serif`;
     for (const w of words) {
       const a = Math.min(1, w.t * 6) * Math.max(0, 1 - Math.max(0, w.t - 1.2) / .5), y = w.y - (reduce ? 0 : 18 * (1 - Math.pow(1 - Math.min(1, w.t / .6), 3)));
       ctx.fillStyle = `rgba(6,16,26,${a * .45})`; ctx.fillText(w.text, w.x + 1, y + 1.5);
@@ -1719,25 +1738,26 @@ const ART = (() => {
   function tick(now) {
     const dt = Math.min(.1, (now - lastT) / 1000); lastT = now;
     if (!MOCK) {
-      acc += dt;
+      acc += dt * timeScale;
       while (acc >= S.STEP) { acc -= S.STEP; for (const ev of S.step(st)) feel(ev); }
     }
     const L = st.line;
     // the float: a spring toward where the fish holds it
-    const target = (L.dip || 0) * (L.dip >= 1 ? 26 : 9) + (L.phase === 'set' && L.fish ? 1 : 0);
+    const target = (L.dip || 0) * (L.dip >= 1 ? Math.max(30, U * 1.6) : Math.max(14, U * .7)) + (L.phase === 'set' && L.fish ? 1 : 0);
     for (let k = 0, n = Math.ceil(dt / (1 / 240)); k < n; k++) { const h = dt / n; fx.bobV += ((target - fx.bob) * 260 - fx.bobV * 16) * h; fx.bob += fx.bobV * h; }   // substeps keep the spring stable on a long frame
     if (L.dip >= 1 && !reduce) fx.bob += Math.sin(now / 30) * .8;
     // the rod swings to the side it fishes, and bends with the load
-    const side = L.phase === 'idle' || L.phase === 'landed' ? (aim ? Math.sign(aim.x - st.boat) || fx.side : fx.side) : Math.sign((L.phase === 'fight' ? L.fx : L.x) - st.boat) || fx.side;
+    const ox = L.phase === 'idle' || L.phase === 'landed' ? (aim ? aim.x : null) : L.phase === 'fight' ? L.fx : L.x;
+    const side = ox == null || Math.abs(ox - st.boat) < 1.5 ? fx.side : Math.sign(ox - st.boat);   // turn only for water clearly on the other side
     fx.side = side || 1;
     fx.face += (fx.side - fx.face) * Math.min(1, dt * 7);
     const wantA = L.phase === 'fight' ? .25 : L.phase === 'idle' || L.phase === 'landed' ? (aim ? .2 : .5) : .8;
     fx.rodA += (wantA - fx.rodA) * Math.min(1, dt * (aim ? 12 : 5));
-    const wantB = L.phase === 'fight' ? Math.min(1.1, L.T) : (L.dip || 0) * .25;
+    const wantB = L.phase === 'fight' ? Math.min(1.1, L.T) : (L.dip || 0) * .5 + (fx.kick || 0) * .5;
     fx.bend += (wantB - fx.bend) * Math.min(1, dt * 10);
     fx.gauge += ((L.phase === 'fight' ? L.T : 0) - fx.gauge) * Math.min(1, dt * 14);
     fx.gaugeA += ((L.phase === 'fight' ? 1 : 0) - fx.gaugeA) * Math.min(1, dt * 6);
-    fx.flash = Math.max(0, fx.flash - dt * 2.5);
+    fx.flash = Math.max(0, fx.flash - dt * 2.5); fx.shake = Math.max(0, fx.shake - dt * 4); fx.pop = Math.max(0, (fx.pop || 0) - dt * 2.2); fx.kick = Math.max(0, (fx.kick || 0) - dt * 3);
     for (const r of rings) r.t += dt; while (rings.length && rings[0].t > 1.5) rings.shift();
     for (const d of drops) { d.t += dt; d.vy += 600 * dt; d.x += d.vx * dt; d.y += d.vy * dt; }
     for (let i = drops.length - 1; i >= 0; i--) if (drops[i].t > .4 && drops[i].y > sy(0) + 4) drops.splice(i, 1);
@@ -1759,7 +1779,7 @@ const ART = (() => {
     fx.hint += ((showHint ? 1 : 0) - fx.hint) * Math.min(1, dt * 4);
     $('hint').style.opacity = fx.hint.toFixed(3);
     const showTitle = !(prefs.taught & 1) && L.phase === 'idle' && !aim || MOCK === 'title';
-    fx.title += ((showTitle ? 1 : 0) - fx.title) * Math.min(1, dt * 3);
+    fx.title += ((showTitle ? 1 : 0) - fx.title) * Math.min(1, dt * (showTitle ? 3 : 12));
     $('title').style.opacity = fx.title.toFixed(3);
     $('title').style.transform = `translateY(${(1 - fx.title) * -12}px)`;
     draw(now);
@@ -1769,7 +1789,7 @@ const ART = (() => {
   addEventListener('resize', layout);
   layout(); syncHud();
   if (MOCK) mock(MOCK);
-  window.__salt = {get st() { return st; }, S, fx, prefs};   // for the test suite's page checks
+  window.__salt = {get st() { return st; }, S, fx, prefs, set timeScale(v) { timeScale = v; }};   // for the test suite's page checks
   requestAnimationFrame(tick);
 
   // a still of the bay for design reviews: ?mock=float|fight|card|title
